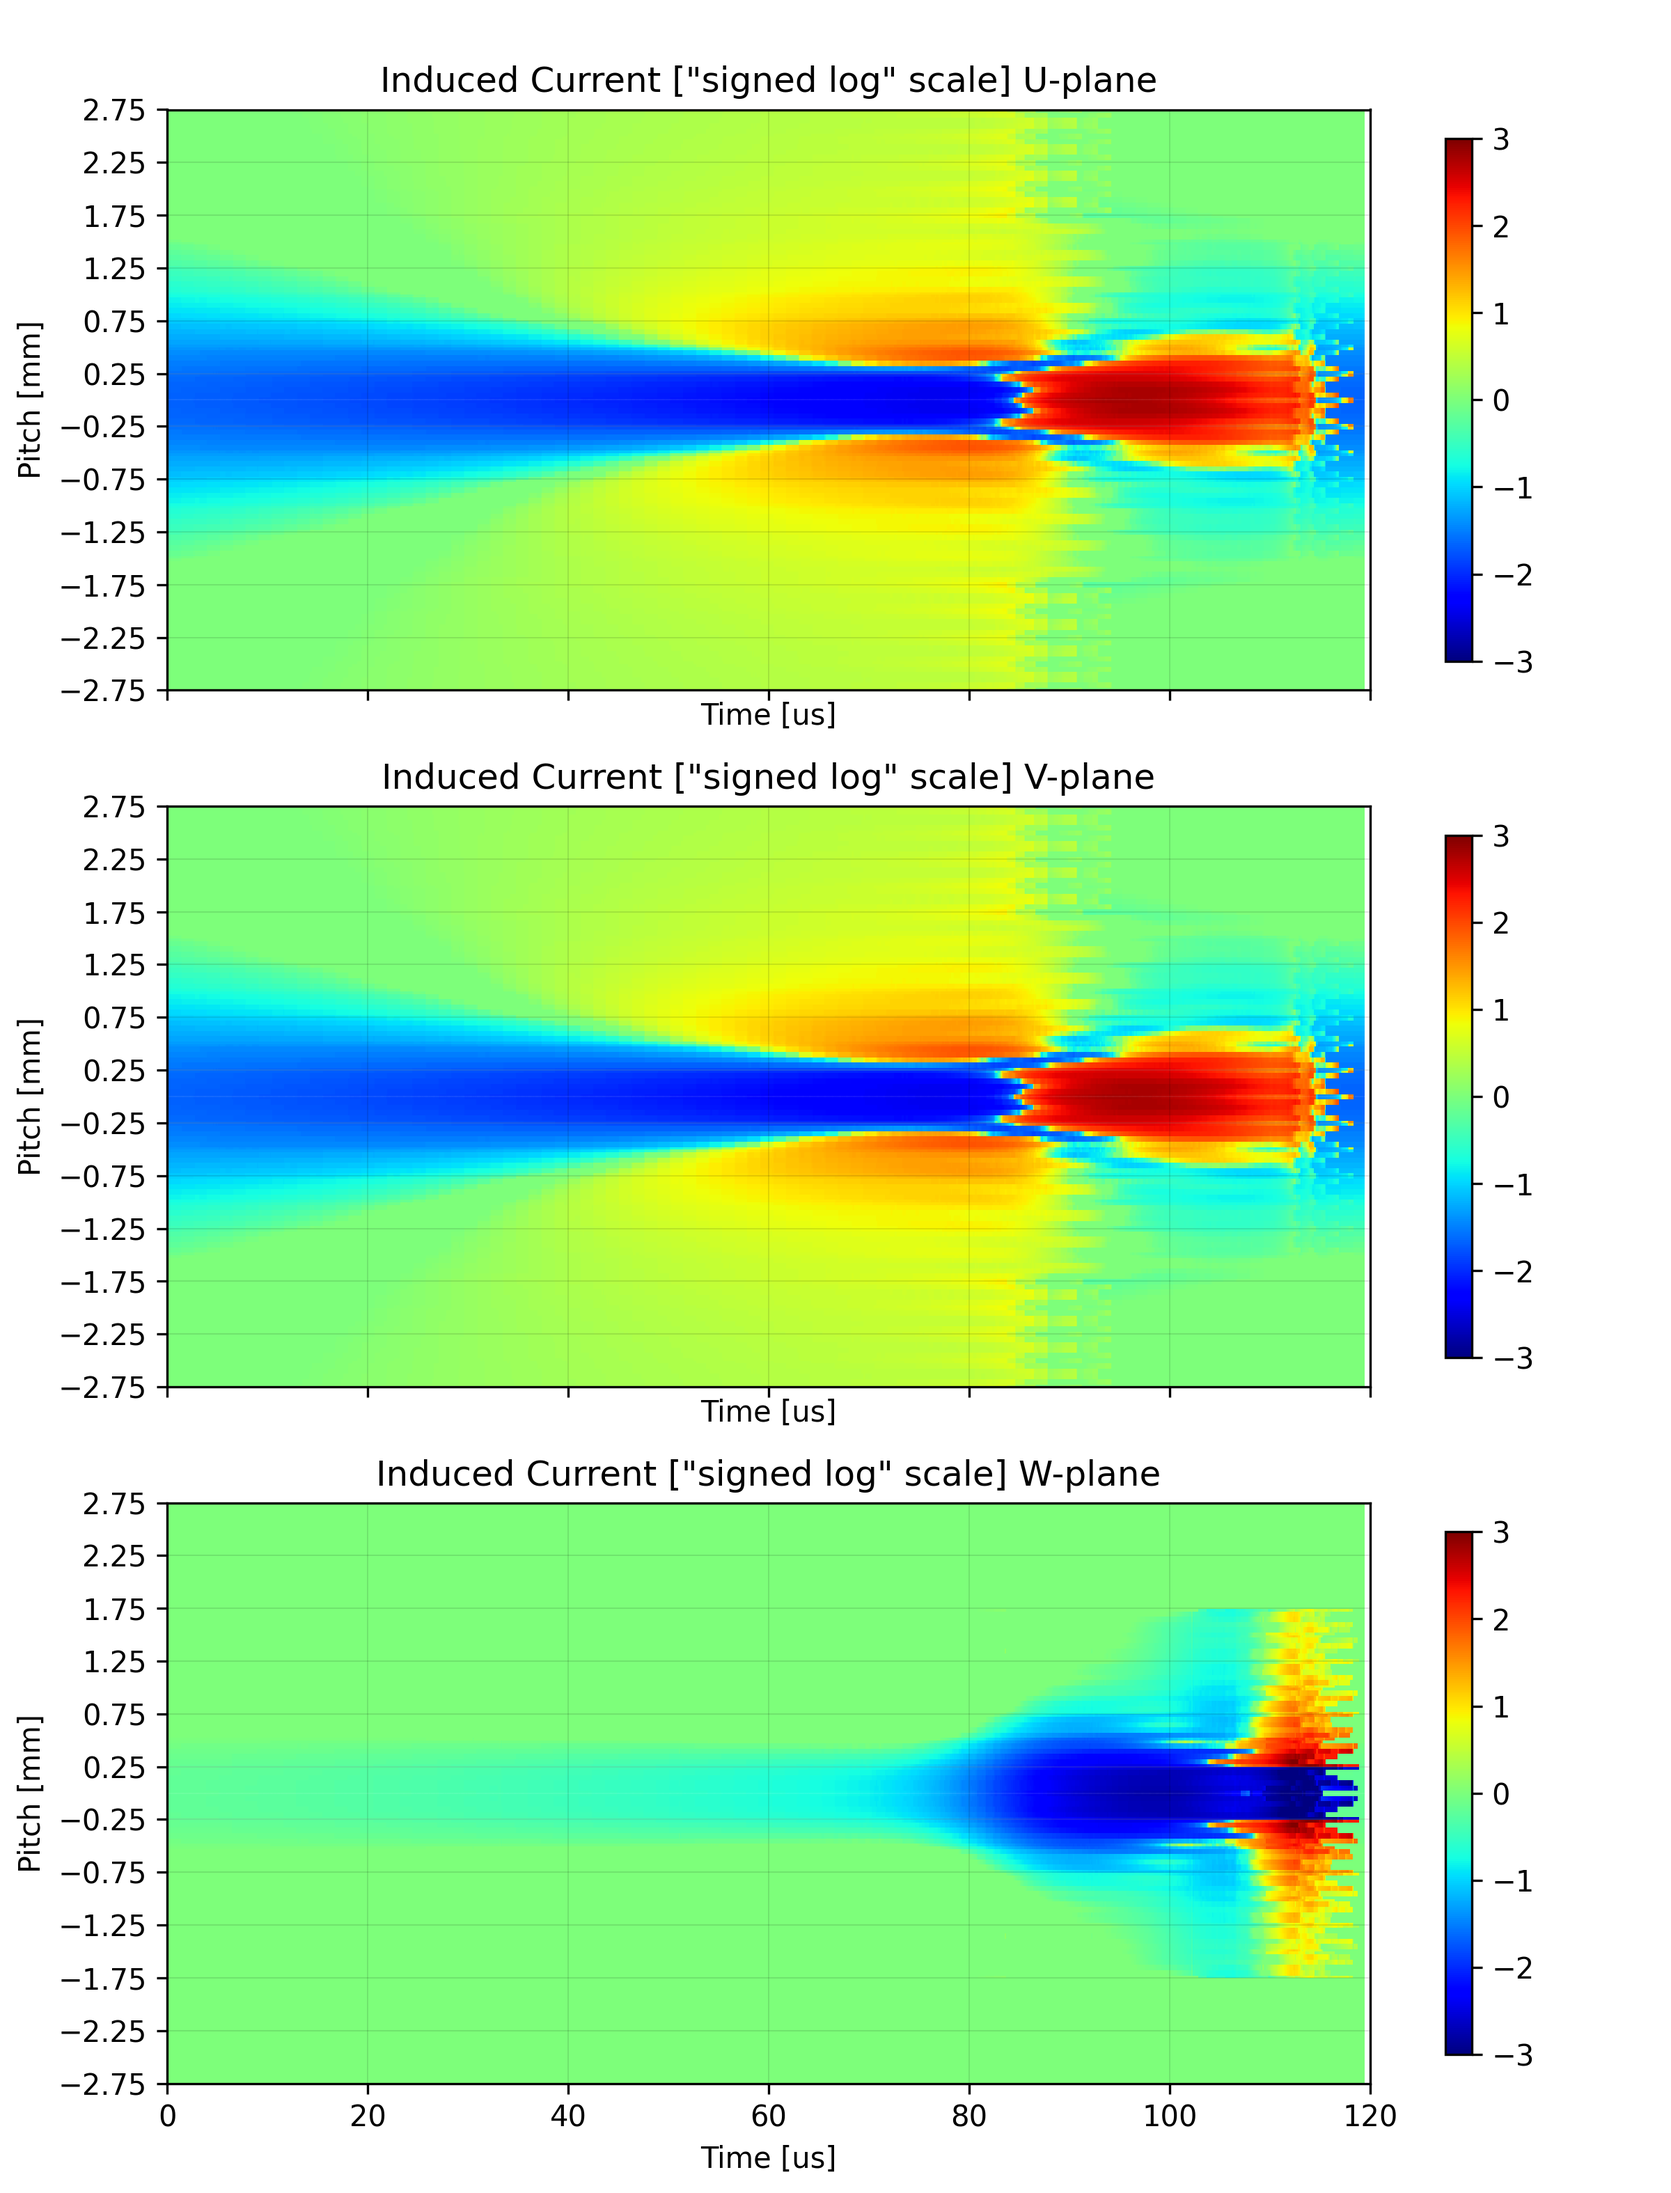
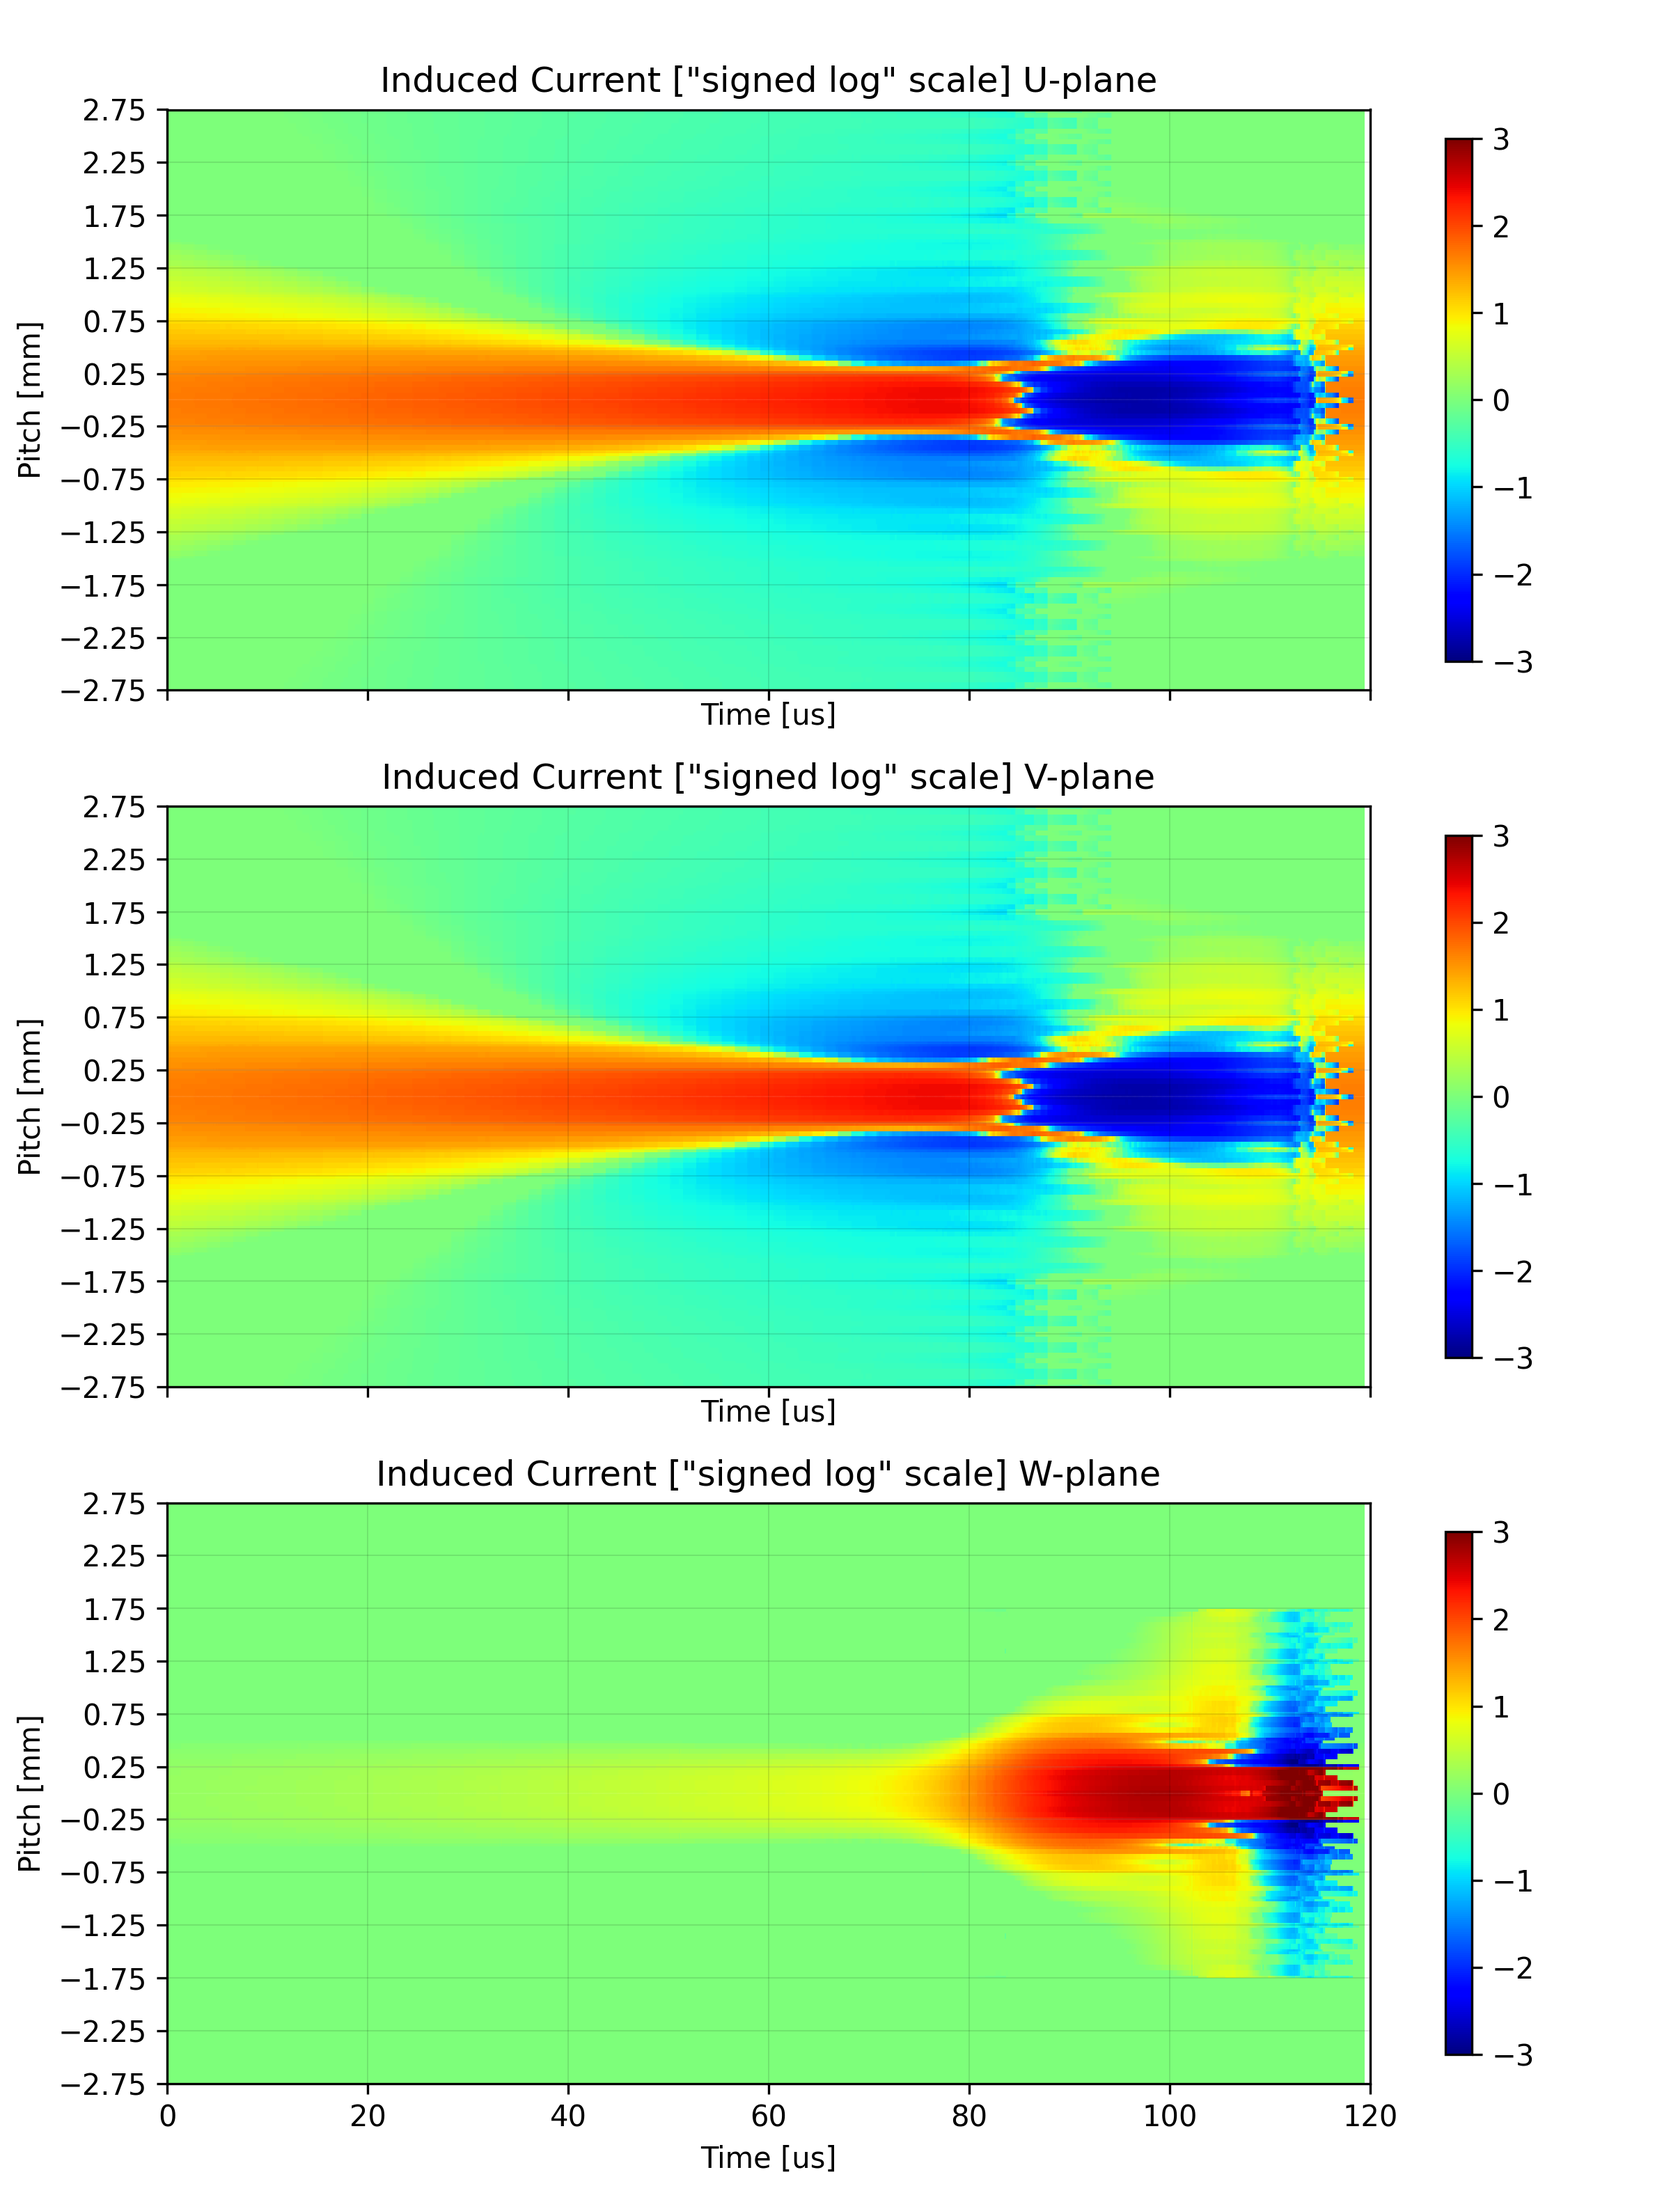
Invert sign of FP fields

diff --git a/python/wirecell/pcbro/__main__.py b/python/wirecell/pcbro/__main__.py
@@ -132,9 +132,9 @@ def convert_fpstrips(tstart, origin, period, speed, pitch,
     anti_drift_axis = (1.0, 0.0, 0.0)
 
     planes = [
-        PlaneResponse(pathresp['ind'], 0, zero_wire_locs, pitch),
-        PlaneResponse(pathresp['ind'], 1, zero_wire_locs, pitch),
-        PlaneResponse(pathresp['col'], 2, zero_wire_locs, pitch),
+        PlaneResponse(pathresp['ind'], 0, zero_wire_locs[0], pitch),
+        PlaneResponse(pathresp['ind'], 1, zero_wire_locs[1], pitch),
+        PlaneResponse(pathresp['col'], 2, zero_wire_locs[2], pitch),
     ]
     fr = FieldResponse(planes, anti_drift_axis,
                        origin, tstart, period, speed)

diff --git a/python/wirecell/pcbro/fpstrips.py b/python/wirecell/pcbro/fpstrips.py
@@ -191,8 +191,9 @@ def fp2wct(arrs, rebin=20):
         # shape now (12,6,nsamps/20)
 
         # FP current is in units of electrons/microsecond and uses
-        # 10^3 electrons as the element of drifting charge.
-        norm = 1e-3 * units.eplus/units.microsecond
+        # 10^3 electrons as the element of drifting charge.  The two
+        # domains also pick opposite sign convention.
+        norm = -1e-3 * units.eplus/units.microsecond
         curs *= norm
 
         # Doctor the coordintaes, first take start of every rebin
